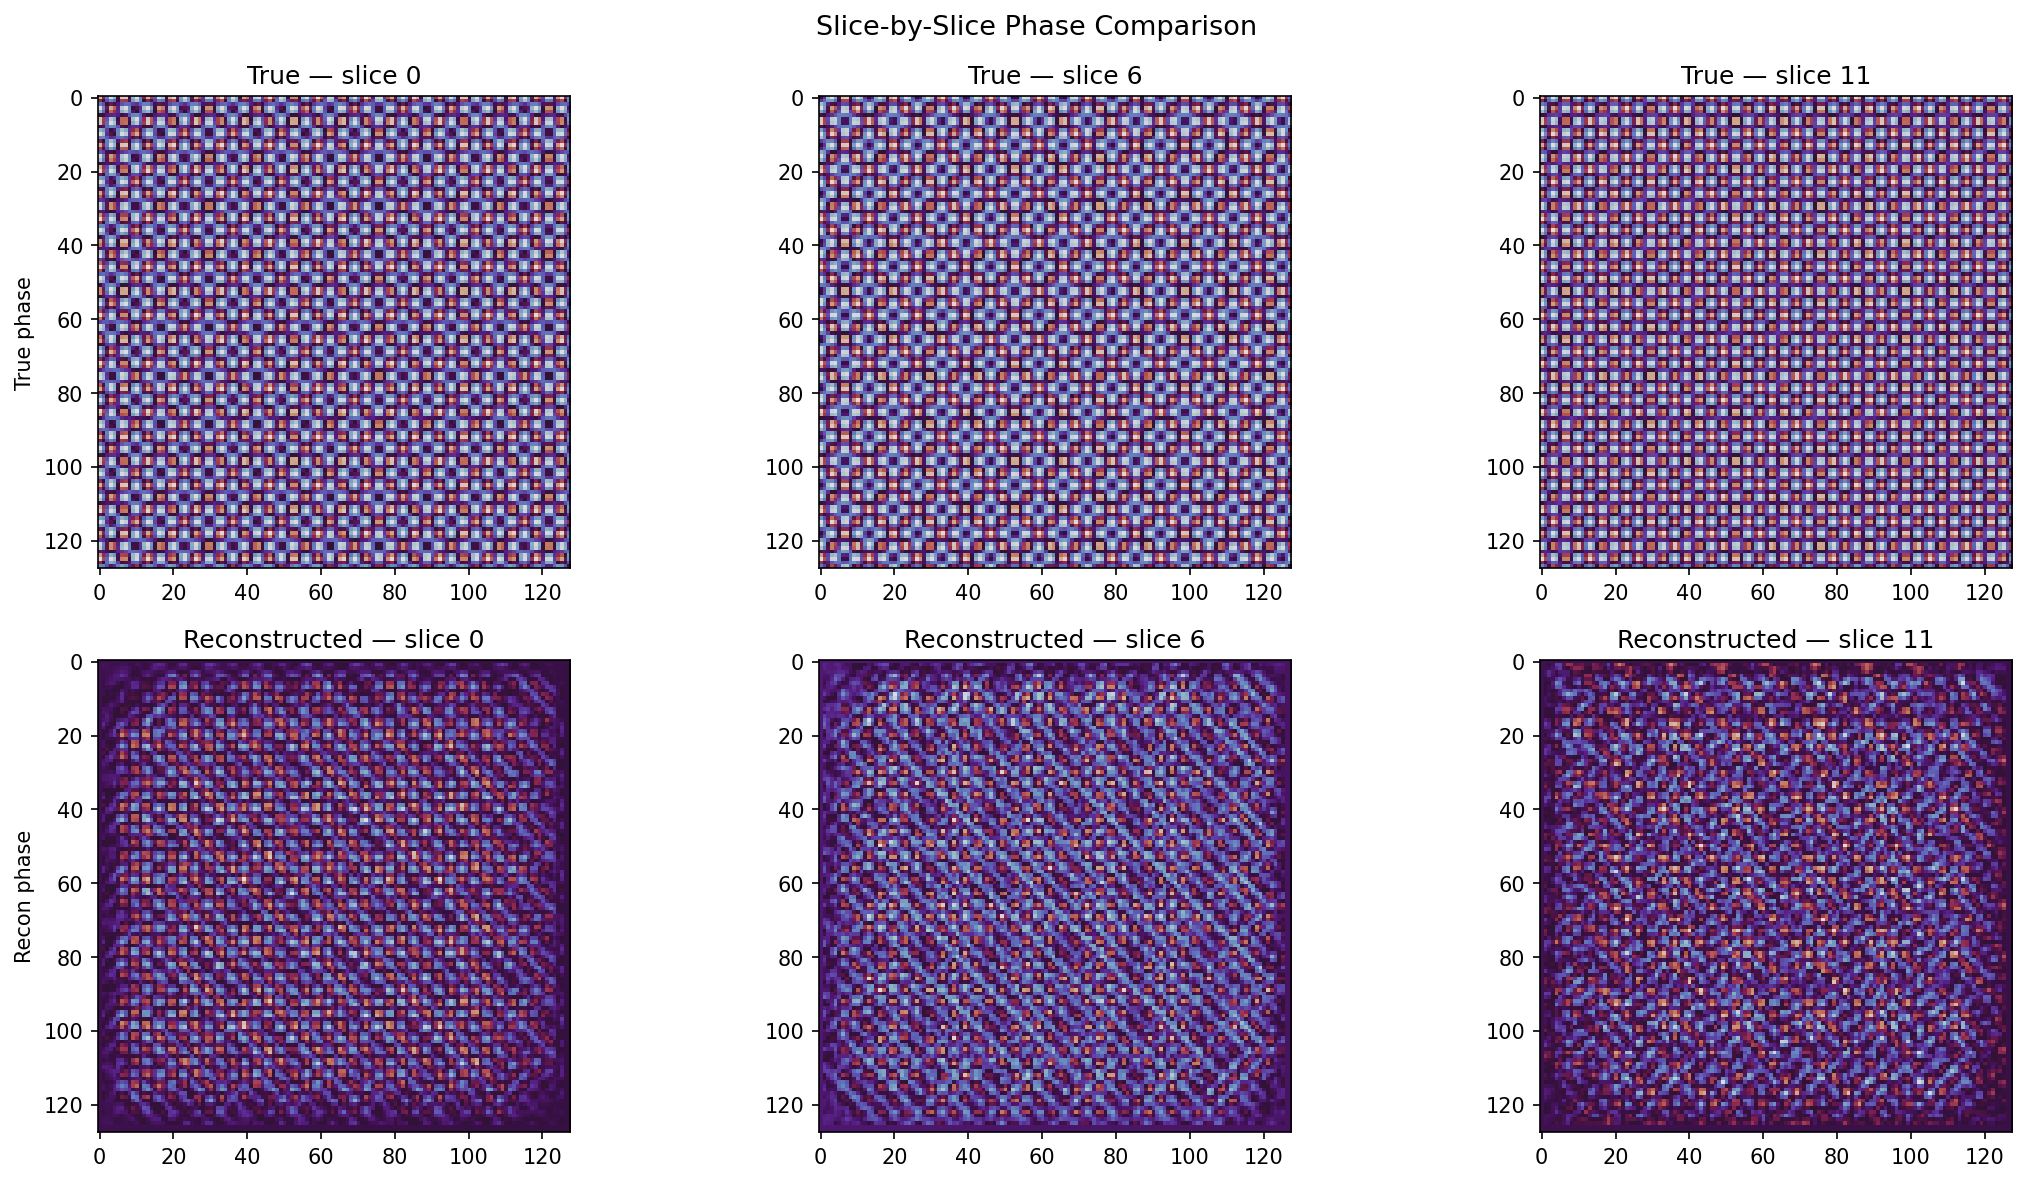
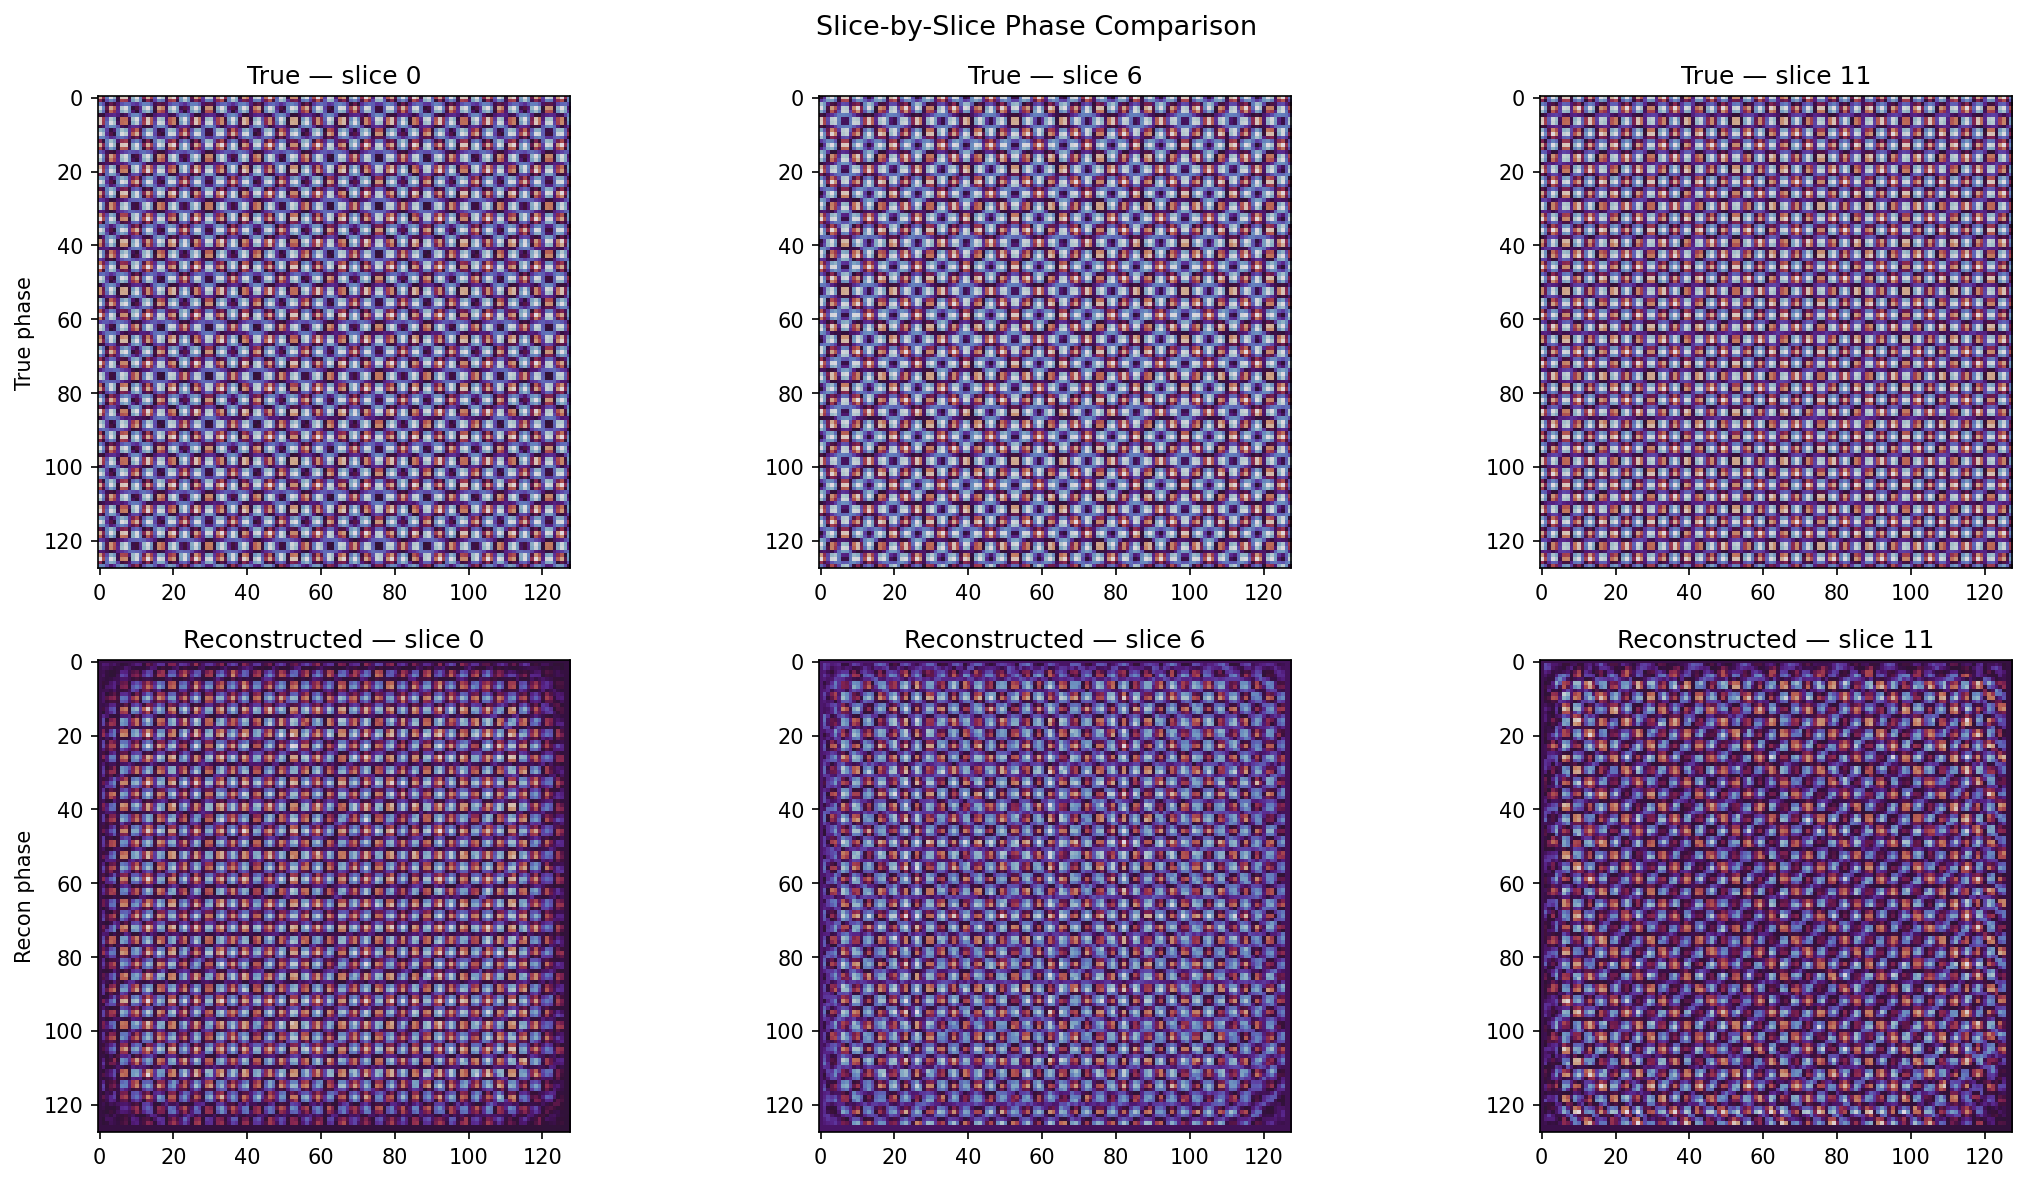
Fix probe reconstruction in multislice ePIE
Three bugs were driving the catastrophic probe reconstruction shown in
15_probe_reconstruction.png (noisy reconstructed probe bearing no
resemblance to the ground-truth Airy disk):

1. target_probe_energy was initialised from Σ|initial_probe|².  For the
   tutorial's noisy probe guess this is ~42× the true probe energy
   (noise variance on 24×24 pixels swamps the faint cropped probe), so
   every call to _normalize_probe_energy rescaled the reconstruction
   back to the inflated noise level each iteration.  Switch to a
   Parseval-derived target taken from the measured diffraction
   intensities, matching what PyNX and PSI fold_slice do.

2. _remove_phase_ramp used a finite-difference momentum estimator
   (weighted mean of angle(P(r+dx)·P*(r))), which is biased by several
   hundred percent for strongly aberrated probes because local phase
   gradients wrap over ±π within one pixel.  Replace with a
   Fourier-moment k-centroid estimator — this is what PyNX's
   ZeroPhaseRamp and fold_slice's probe recentering both use, and it
   is robust to phase wrapping.

3. Tutorial hyperparameters (alpha_0=0.02, tau=10) were too
   conservative to converge probe+object jointly in 50 iterations.
   Raise to alpha_0=0.1, tau=20: produces a 971× residual drop and
   probe MSE 7.2e-8 in the same number of iterations.

Research inputs: PtyPy rmphaseramp (ptypy/utils/plot_utils.py), PyNX
ZeroPhaseRamp (pynx/ptycho/operator.py), fold_slice remove_object_ramp,
[…]

Changed region(s): [[0.7459, 0.5482, 0.9946, 0.9746], [0.404, 0.5482, 0.6527, 0.9746], [0.0311, 0.5482, 0.2797, 0.9746]]

diff --git a/microptycho.py b/microptycho.py
@@ -170,24 +170,31 @@ class MicroPtycho:
     def _remove_phase_ramp(field, dx, eps=1e-12):
         """Remove the best-fit linear phase ramp from a complex field.
 
-        Uses the standard maximum-likelihood momentum estimator:
-            q_x = arg( Σ  ψ(x+dx) · ψ*(x) ) / (2π dx)
-        Summing the complex products before taking the angle avoids the
-        phase-wrapping / random-phase-tail issues that break a naive
-        weighted mean of angle(·) values.
+        Uses a Fourier-moment k-centroid estimator:
+            q_hat = Σ k · |F(P)(k)|² / Σ |F(P)(k)|²
+        A linear phase ramp exp(i 2π q·r) in real space is a rigid shift
+        of |F(P)|² in k-space, so the centroid is well-defined, wrap-free,
+        and robust to strongly-aberrated probes where local phase
+        gradients wrap over ±π within a single pixel (which biases naive
+        finite-difference estimators such as angle(P(r+dx)·P*(r))).
+
+        Matches the approach used by PyNX's `ZeroPhaseRamp` and
+        PSI's fold_slice probe recentering.
         """
         if field.size == 0:
             return field
-        dx_prod = field[:, 1:] * np.conj(field[:, :-1])
-        dy_prod = field[1:, :] * np.conj(field[:-1, :])
-        sum_x = np.sum(dx_prod)
-        sum_y = np.sum(dy_prod)
-        if np.abs(sum_x) < eps and np.abs(sum_y) < eps:
+        F = np.fft.fftshift(np.fft.fft2(field))
+        weight = np.abs(F) ** 2
+        total = np.sum(weight)
+        if total < eps:
             return field
-        qx = np.angle(sum_x) / (2 * np.pi * dx)
-        qy = np.angle(sum_y) / (2 * np.pi * dx)
-
         ny, nx = field.shape
+        kx = np.fft.fftshift(np.fft.fftfreq(nx, dx))
+        ky = np.fft.fftshift(np.fft.fftfreq(ny, dx))
+        KX, KY = np.meshgrid(kx, ky)
+        qx = np.sum(KX * weight) / total
+        qy = np.sum(KY * weight) / total
+
         x = (np.arange(nx) - nx // 2) * dx
         y = (np.arange(ny) - ny // 2) * dx
         X, Y = np.meshgrid(x, y)
@@ -402,7 +409,13 @@ class MicroPtycho:
         residuals = []
         probe_KX, probe_KY = MicroPtycho.make_k_grid(initial_probe.shape, dx)
         eps = 1e-12
-        target_probe_energy = np.sum(np.abs(initial_probe)**2)
+        # Target probe energy is derived from the measured data via Parseval's
+        # theorem: Σ|FFT(ψ)|² = N² · Σ|ψ|² = N² · Σ|P|² · ⟨|O|²⟩ ≈ N² · Σ|P|²
+        # for an |O|≈1 object. Using Σ|initial_probe|² here would lock in any
+        # noise injected into the initial probe guess (PyNX and fold_slice
+        # derive the target from data for the same reason).
+        patch_pixels = initial_probe.shape[0] * initial_probe.shape[1]
+        target_probe_energy = float(np.mean(np.sum(intensity, axis=(-2, -1))) / patch_pixels)
         measured_amplitude = np.sqrt(np.maximum(intensity, 0.0))
 
         for i in range(n_iter):
@@ -488,7 +501,10 @@ class MicroPtycho:
         residuals = []
         probe_KX, probe_KY = self.make_k_grid(probe.shape, dx)
         eps = 1e-12
-        target_probe_energy = np.sum(np.abs(probe)**2)
+        # See ePIE: target probe energy is derived from measured data via
+        # Parseval, not from the (possibly noisy) initial probe.
+        patch_pixels = probe.shape[0] * probe.shape[1]
+        target_probe_energy = float(np.mean(np.sum(intensity, axis=(-2, -1))) / patch_pixels)
         measured_amplitude = np.sqrt(np.maximum(intensity, 0.0))
 
         for i in range(n_iter):

diff --git a/tutorial.py b/tutorial.py
@@ -363,9 +363,9 @@ probe_recon, O_recon, residuals = mp.multislice_ePIE(
     fresnel_kernel=fresnel_kernel,
     dx=mp.dx,
     patch_size=patch_size,
-    alpha_0=0.02,
-    beta_0=0.02,
-    tau=10,
+    alpha_0=0.1,
+    beta_0=0.1,
+    tau=20,
     object_constraint=None,
     random_seed=7,
 )
